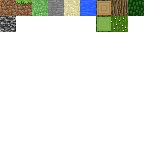
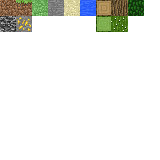
Add gold ore.

Changed region(s): [[0.0938, 0.0938, 0.2188, 0.2188]]

diff --git a/src/plugins/world/chunk/components/mod.rs b/src/plugins/world/chunk/components/mod.rs
@@ -11,6 +11,7 @@ pub enum BlockType {
     WoodLog,
     Leaves,
     BedRock,
+    OreStoneGold,
     Cactus,
 }
 
@@ -89,6 +90,14 @@ impl BlockType {
                 back: vec![Vec2::new(0.1, 0.1), Vec2::new(0.0, 0.1), Vec2::new(0.0, 0.2), Vec2::new(0.1, 0.2)],
                 top: vec![Vec2::new(0.1, 0.1), Vec2::new(0.0, 0.1), Vec2::new(0.0, 0.2), Vec2::new(0.1, 0.2)],
                 bottom: vec![Vec2::new(0.1, 0.1), Vec2::new(0.0, 0.1), Vec2::new(0.0, 0.2), Vec2::new(0.1, 0.2)],
+            },
+            BlockType::OreStoneGold => BlockFaces {
+                left: vec![Vec2::new(0.2, 0.1), Vec2::new(0.1, 0.1), Vec2::new(0.1, 0.2), Vec2::new(0.2, 0.2)],
+                right: vec![Vec2::new(0.2, 0.1), Vec2::new(0.1, 0.1), Vec2::new(0.1, 0.2), Vec2::new(0.2, 0.2)],
+                front: vec![Vec2::new(0.2, 0.1), Vec2::new(0.1, 0.1), Vec2::new(0.1, 0.2), Vec2::new(0.2, 0.2)],
+                back: vec![Vec2::new(0.2, 0.1), Vec2::new(0.1, 0.1), Vec2::new(0.1, 0.2), Vec2::new(0.2, 0.2)],
+                top: vec![Vec2::new(0.2, 0.1), Vec2::new(0.1, 0.1), Vec2::new(0.1, 0.2), Vec2::new(0.2, 0.2)],
+                bottom: vec![Vec2::new(0.2, 0.1), Vec2::new(0.1, 0.1), Vec2::new(0.1, 0.2), Vec2::new(0.2, 0.2)],
             }, 
             BlockType::Cactus => BlockFaces {
                 left: vec![Vec2::new(0.8, 0.1), Vec2::new(0.7, 0.1), Vec2::new(0.7, 0.2), Vec2::new(0.8, 0.2)],

diff --git a/src/plugins/world/chunk/systems/mod.rs b/src/plugins/world/chunk/systems/mod.rs
@@ -48,7 +48,13 @@ pub fn generate_chunk_data(
             block_to_assign = BlockType::BedRock;
         }
         else if y <= height / 2 {
-            block_to_assign = BlockType::Stone;
+            let is_gold = random.gen_bool(0.01);
+            if is_gold {
+                block_to_assign = BlockType::OreStoneGold;
+            }
+            else {
+                block_to_assign = BlockType::Stone;
+            }
         }
         else if y == height {
             if temperature > 0.5 && moisture < 0.5 {
